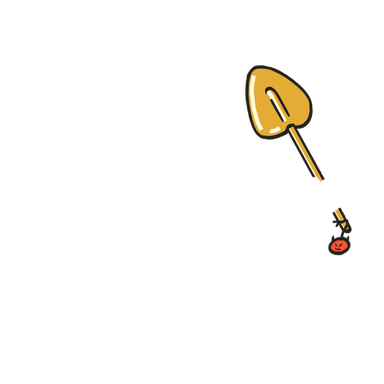
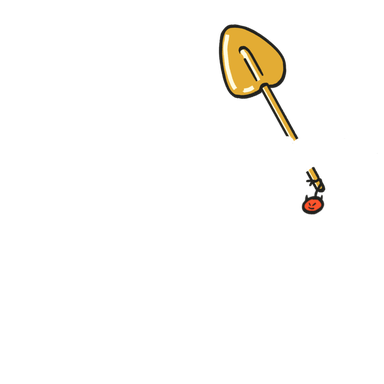
v541: off-hand art back to where it was (#456)
* offhand revert

* v541: off-hand art back to where it was

---------

Changed region(s): [[0.5625, 0.0625, 0.9375, 0.6875]]

diff --git a/js/app.js b/js/app.js
@@ -24526,7 +24526,7 @@ const XP_PIPS = 20;
 // what your pet has to say when you poke it (handoff: option 1d)
 const PET_LINES = ['Grrf.', 'He has opinions.', 'Woof. (Feed him.)', 'Bark. Bones. Bark.', "That's his whole vocabulary."];
 if (S.island) document.documentElement.classList.add('fx-island');
-const APP_BUILD = 'v540'; // shown in Settings so we can confirm the running build; bump with sw.js VERSION
+const APP_BUILD = 'v541'; // shown in Settings so we can confirm the running build; bump with sw.js VERSION
 // Crew grants land as a pack reveal (item grants get cards, coins/XP ride the
 // footer); pure coin/XP deliveries keep the light toast so boot stays calm.
 let grantDeliveryBusy = false;

diff --git a/js/changelog.js b/js/changelog.js
@@ -9,6 +9,10 @@ export const NEXT_CHANGES = [
 
 export const CHANGES = [
 
+  { n: 541, date: '2026-09-09', title: 'Off-hand art back to where it was', items: [
+    'The off-hand toothbrush and spade artwork is restored to its state before the rejected adjustment. The underlying hand misalignment remains open and unfixed.',
+  ] },
+
   { n: 540, date: '2026-09-09', title: 'The Boneyard scrolls again', items: [
     'The Boneyard intro and location error screens now allow scrolling as text grows.',
   ] },

diff --git a/sw.js b/sw.js
@@ -1,5 +1,5 @@
 // Tally service worker: precache the app shell, runtime-cache heavy OCR assets.
-const VERSION = 'tally-v540';
+const VERSION = 'tally-v541';
 const PRECACHE = [
   './',
   './index.html',

diff --git a/docs/CLAIMS.md b/docs/CLAIMS.md
@@ -1,5 +1,12 @@
 # What each patch note claims, and what backs it
 
+
+## v541 (2026-09-09)
+
+Changelog item: The off-hand brushes and spades are back to how they looked before the last change.
+
+1. PROOF: hand-registration-audit.mjs | REACH: Tom, on the live build: "you made the offhand problem worse now the shovel tooth bursh and flag are further off the bonehead wtf". v536 translated four off-hand masters (IL10-1/2 by +30,+104 and IL17-1/2 by +44,+68) on the strength of a Python composite over assets/bh/B/B0-1.png. That is NOT the renderer the app ships and no screenshot of the real avatar was ever taken, which is exactly what the verification contract forbids. All thirteen files (four masters, eight 192/384 thumbnails, one trim) are restored to their pre-v536 bytes, verified by git hash-object against the v535 blobs, four of four masters matching. tests/hand-registration-audit.mjs is demoted in the same commit: it grades a source composite and its header now says so, because it cannot evidence rendered registration. THE UNDERLYING DEFECT IS STILL OPEN: the off-hand items were misaligned before v536 and are misaligned again now. This change only removes a regression that made it worse; it is not a fix, and the CHANGELOG says so in the player's words.
+
 ## v540 (2026-09-09)
 
 Changelog item: The Boneyard intro and location error screens now allow scrolling as text grows.
